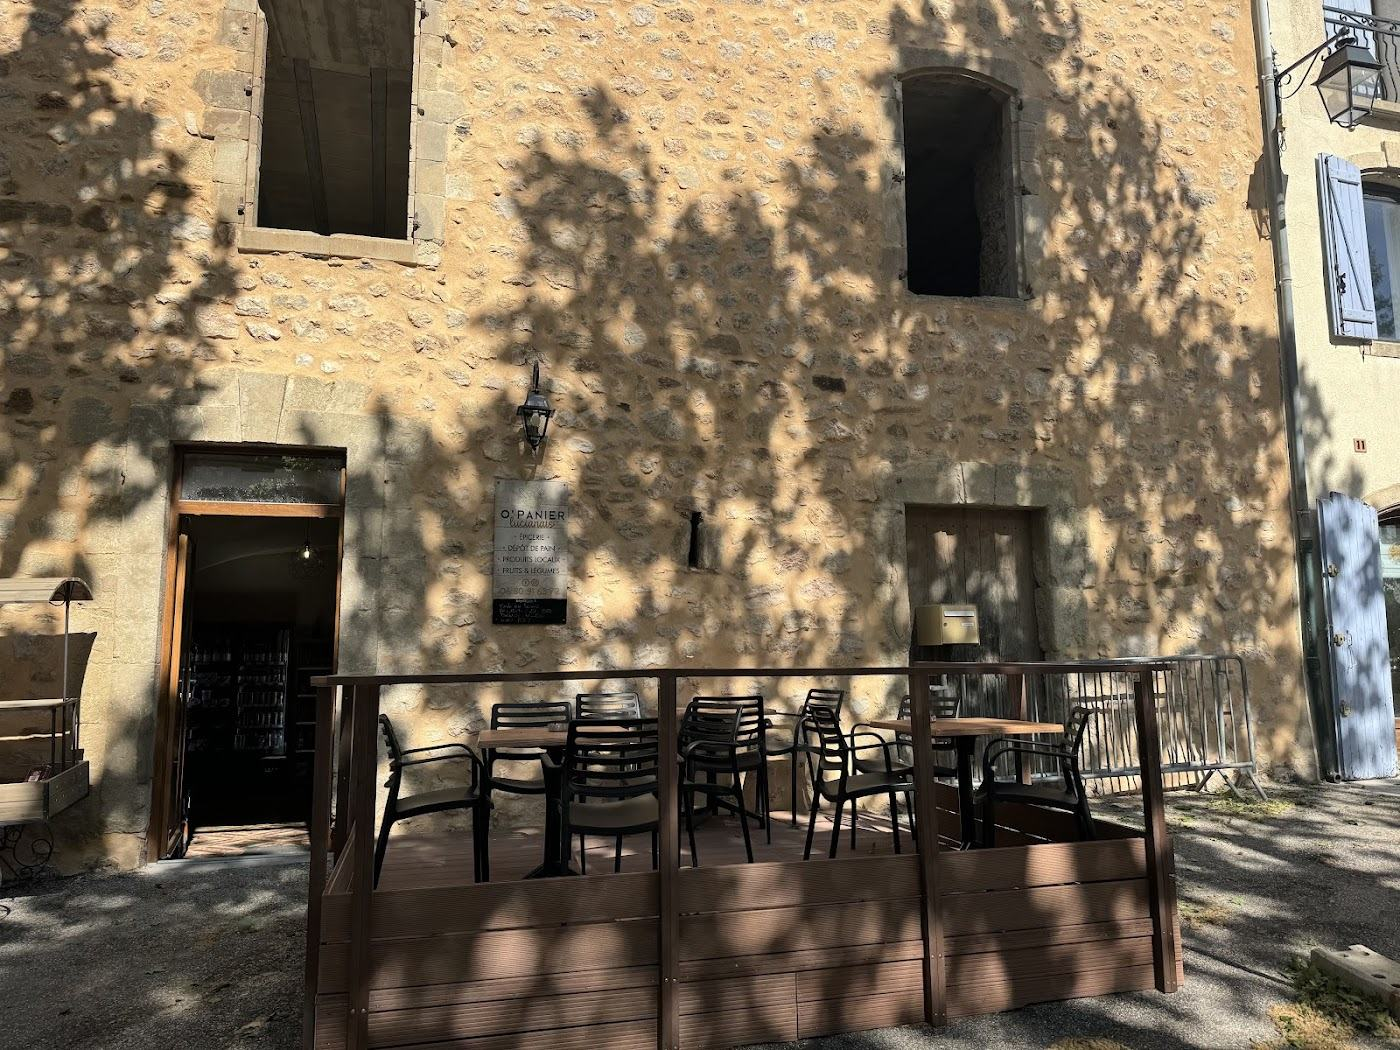
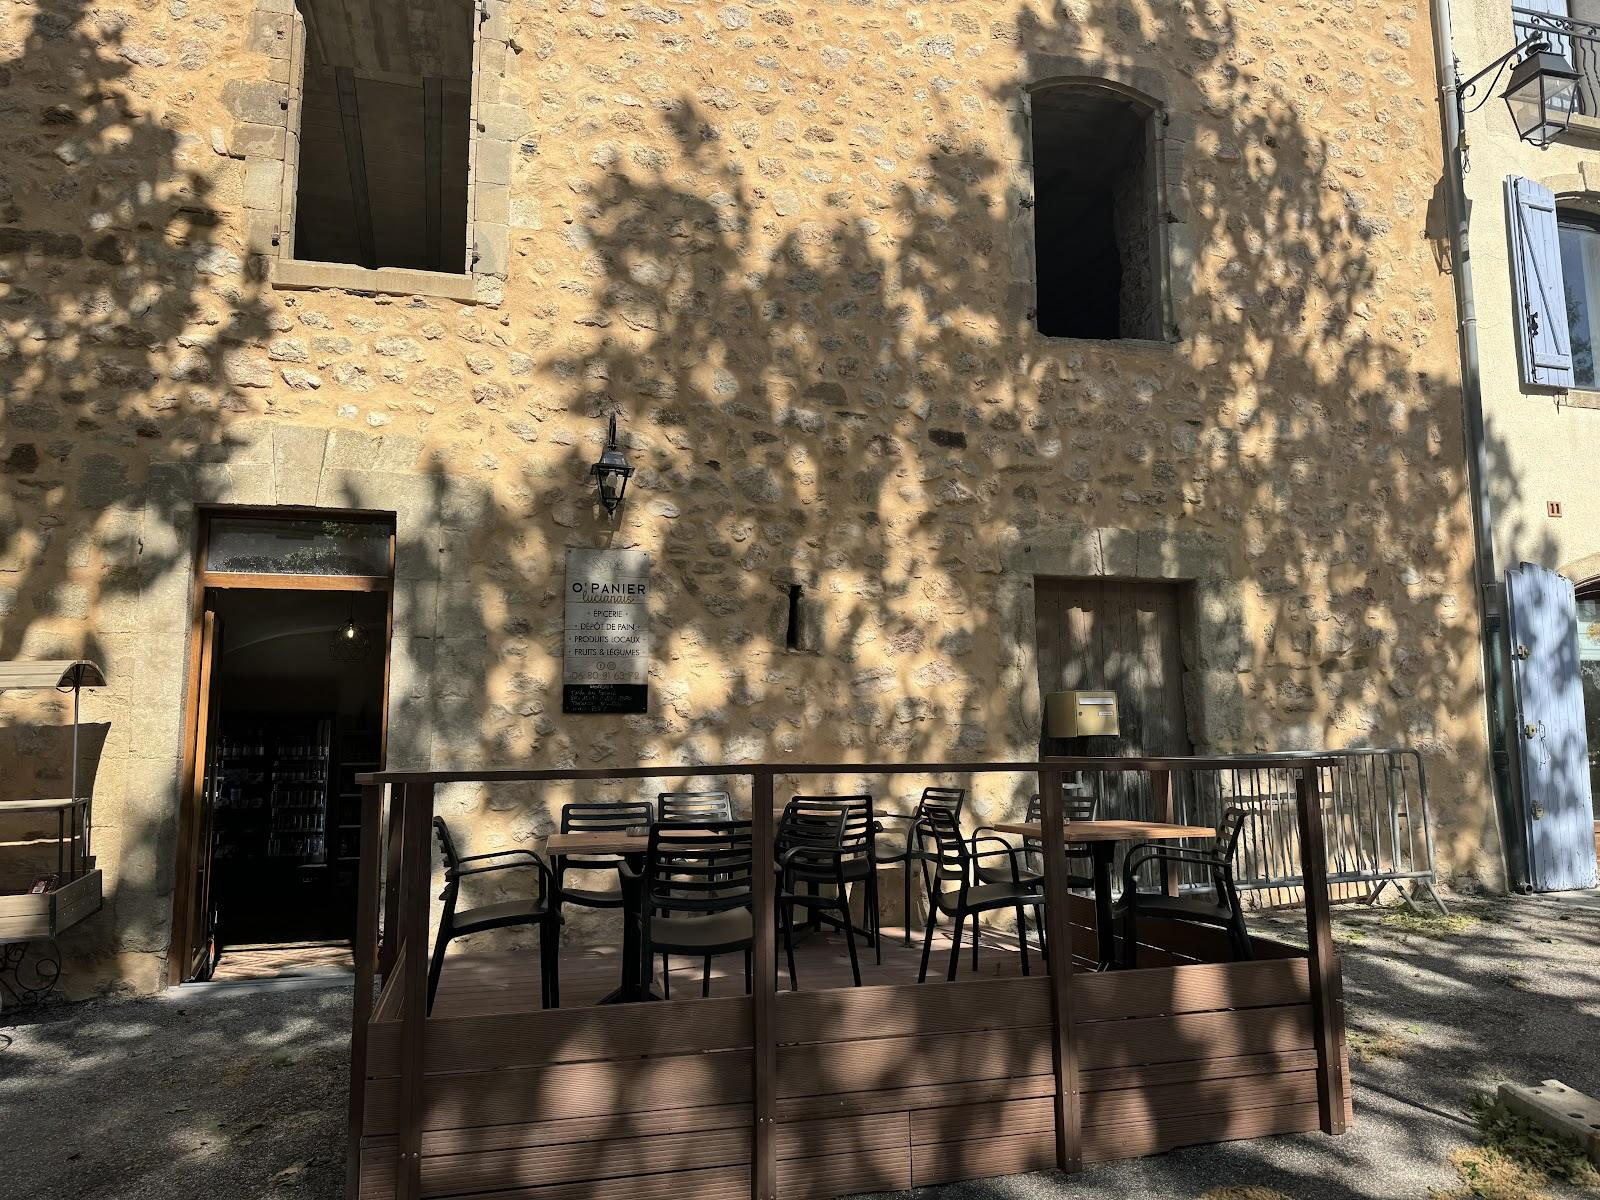
Polices hébergées localement, photos corrigées (tielle, tarte salée)

diff --git a/fonts/fonts.css b/fonts/fonts.css
@@ -1,0 +1,3 @@
+@font-face{font-family:'Caveat';font-style:normal;font-weight:500;font-display:swap;src:url(caveat.woff2) format('woff2');unicode-range:U+0000-00FF, U+0131, U+0152-0153, U+02BB-02BC, U+02C6, U+02DA, U+02DC, U+0304, U+0308, U+0329, U+2000-206F, U+20AC, U+2122, U+2191, U+2193, U+2212, U+2215, U+FEFF, U+FFFD}
+@font-face{font-family:'Figtree';font-style:normal;font-weight:400 600;font-display:swap;src:url(figtree.woff2) format('woff2');unicode-range:U+0000-00FF, U+0131, U+0152-0153, U+02BB-02BC, U+02C6, U+02DA, U+02DC, U+0304, U+0308, U+0329, U+2000-206F, U+20AC, U+2122, U+2191, U+2193, U+2212, U+2215, U+FEFF, U+FFFD}
+@font-face{font-family:'Young Serif';font-style:normal;font-weight:400;font-display:swap;src:url(young-serif.woff2) format('woff2');unicode-range:U+0000-00FF, U+0131, U+0152-0153, U+02BB-02BC, U+02C6, U+02DA, U+02DC, U+0304, U+0308, U+0329, U+2000-206F, U+20AC, U+2122, U+2191, U+2193, U+2212, U+2215, U+FEFF, U+FFFD}
